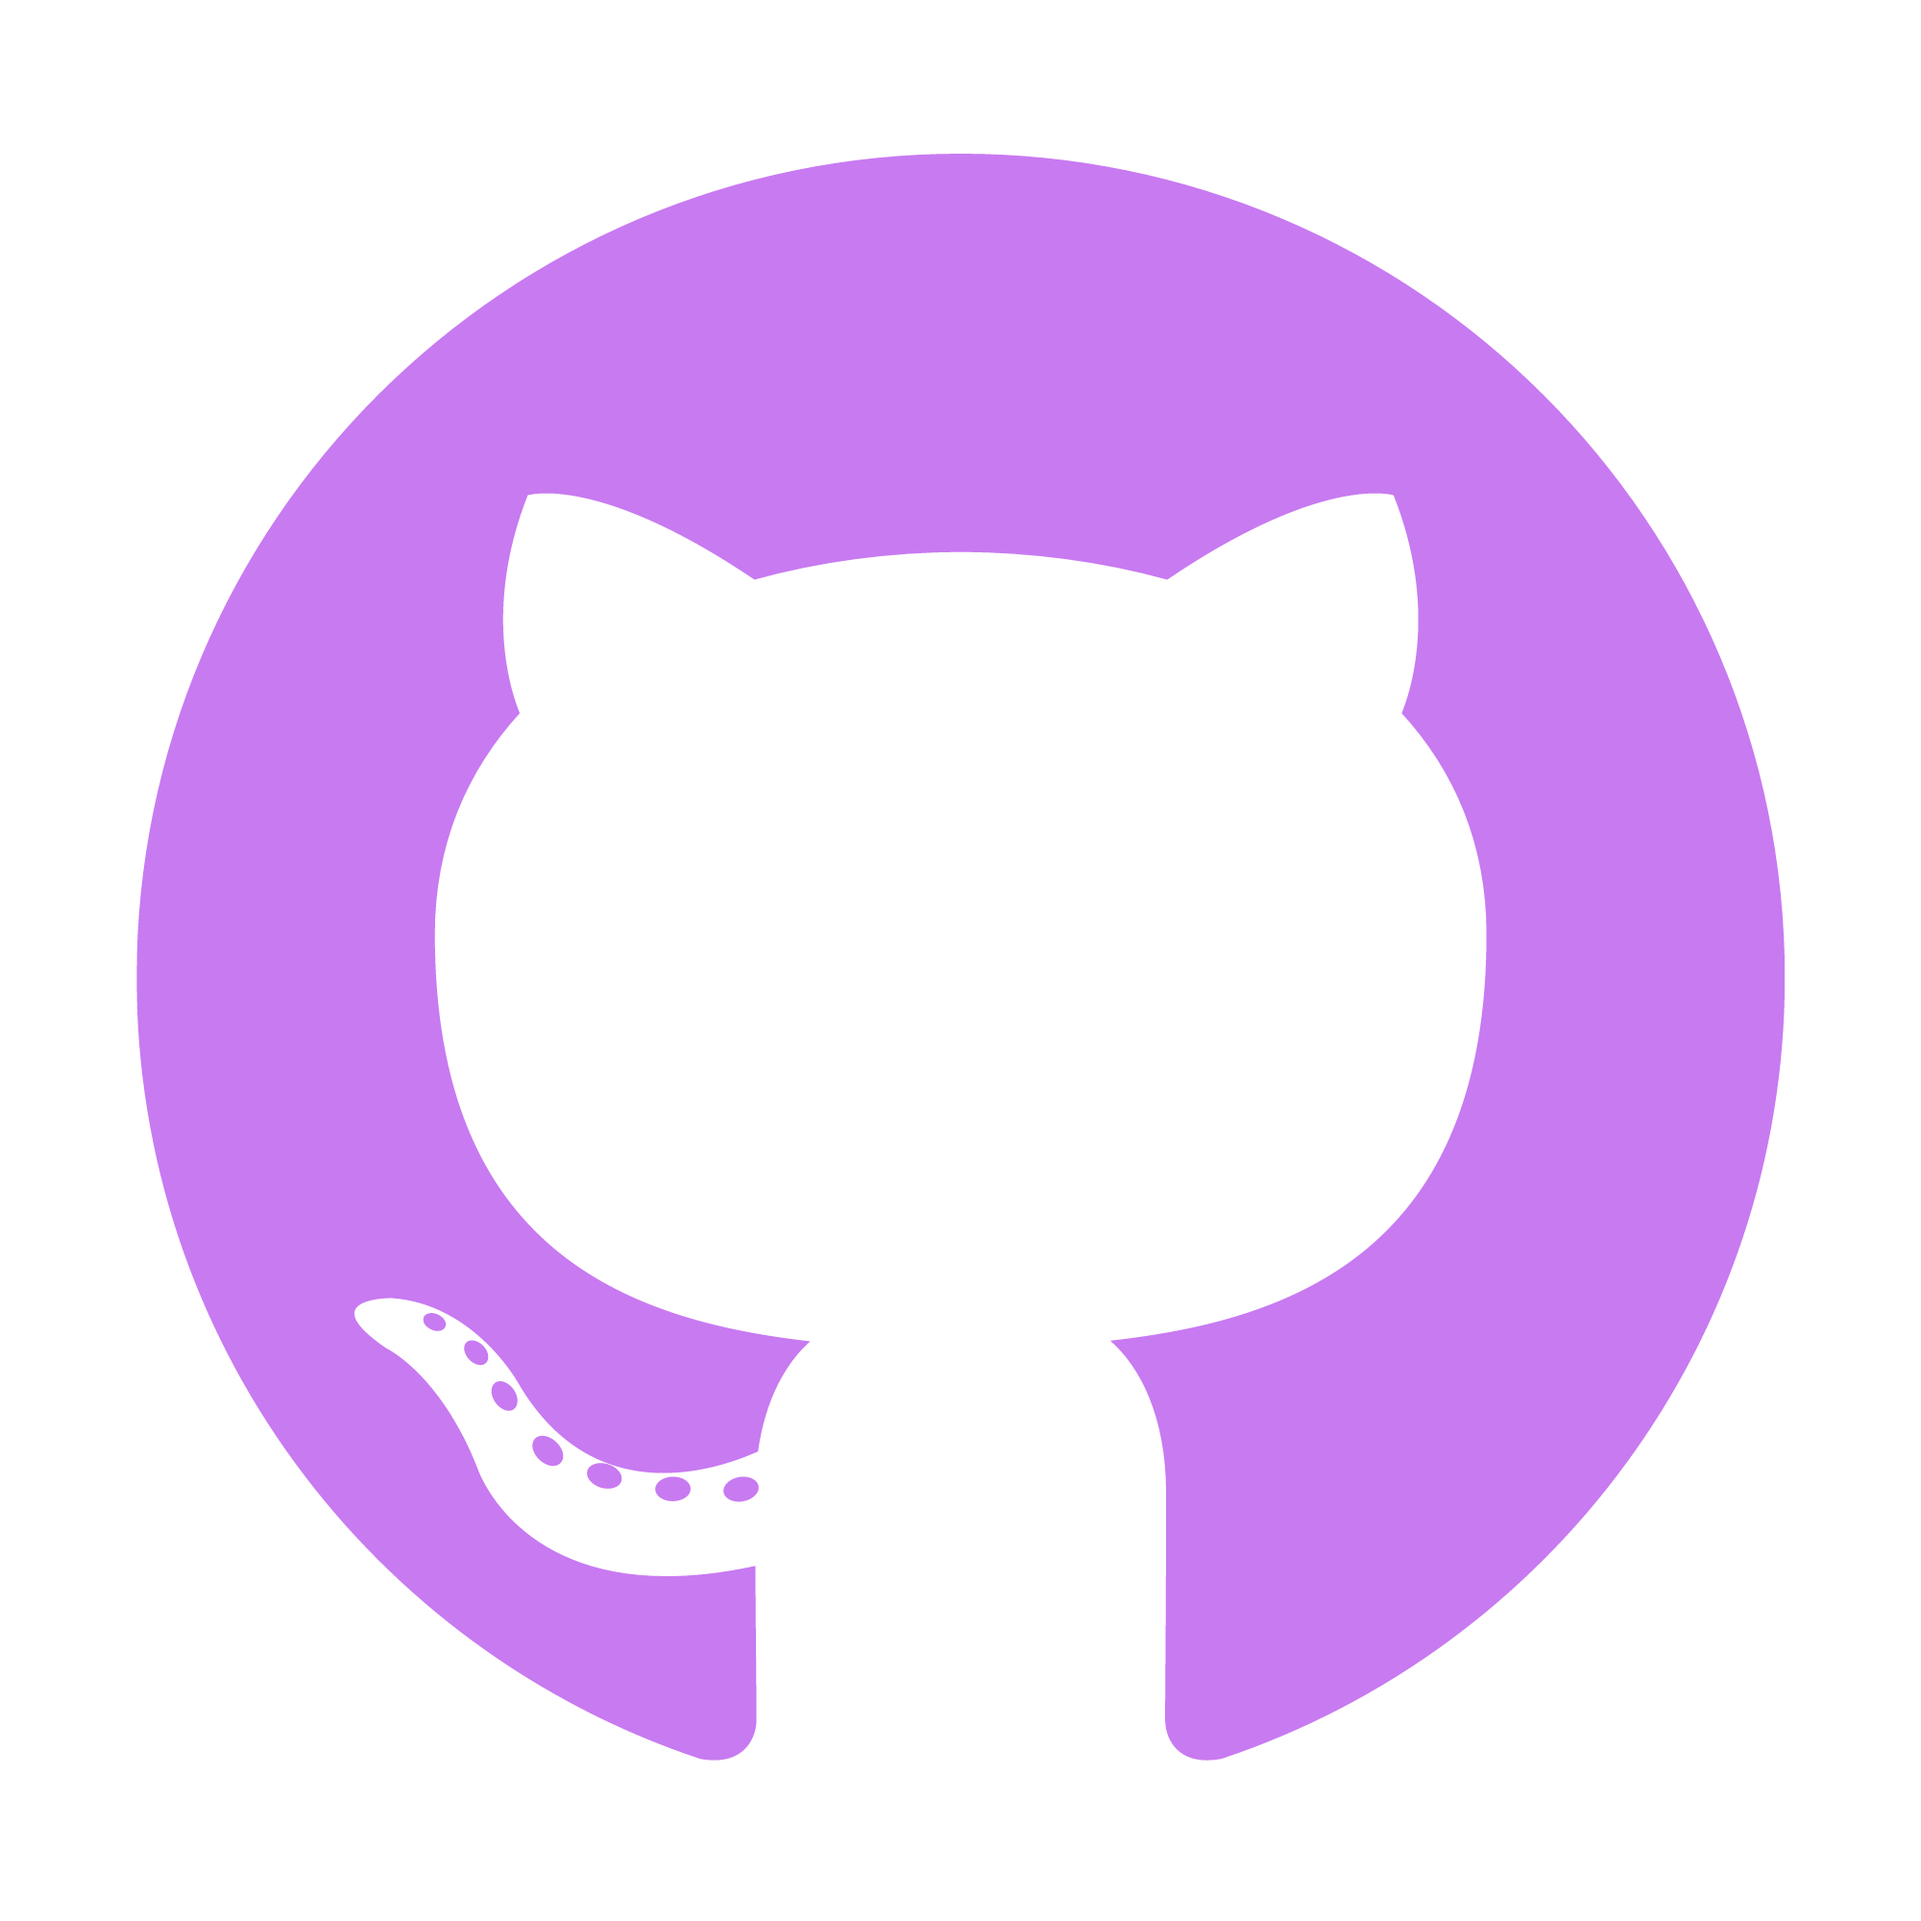
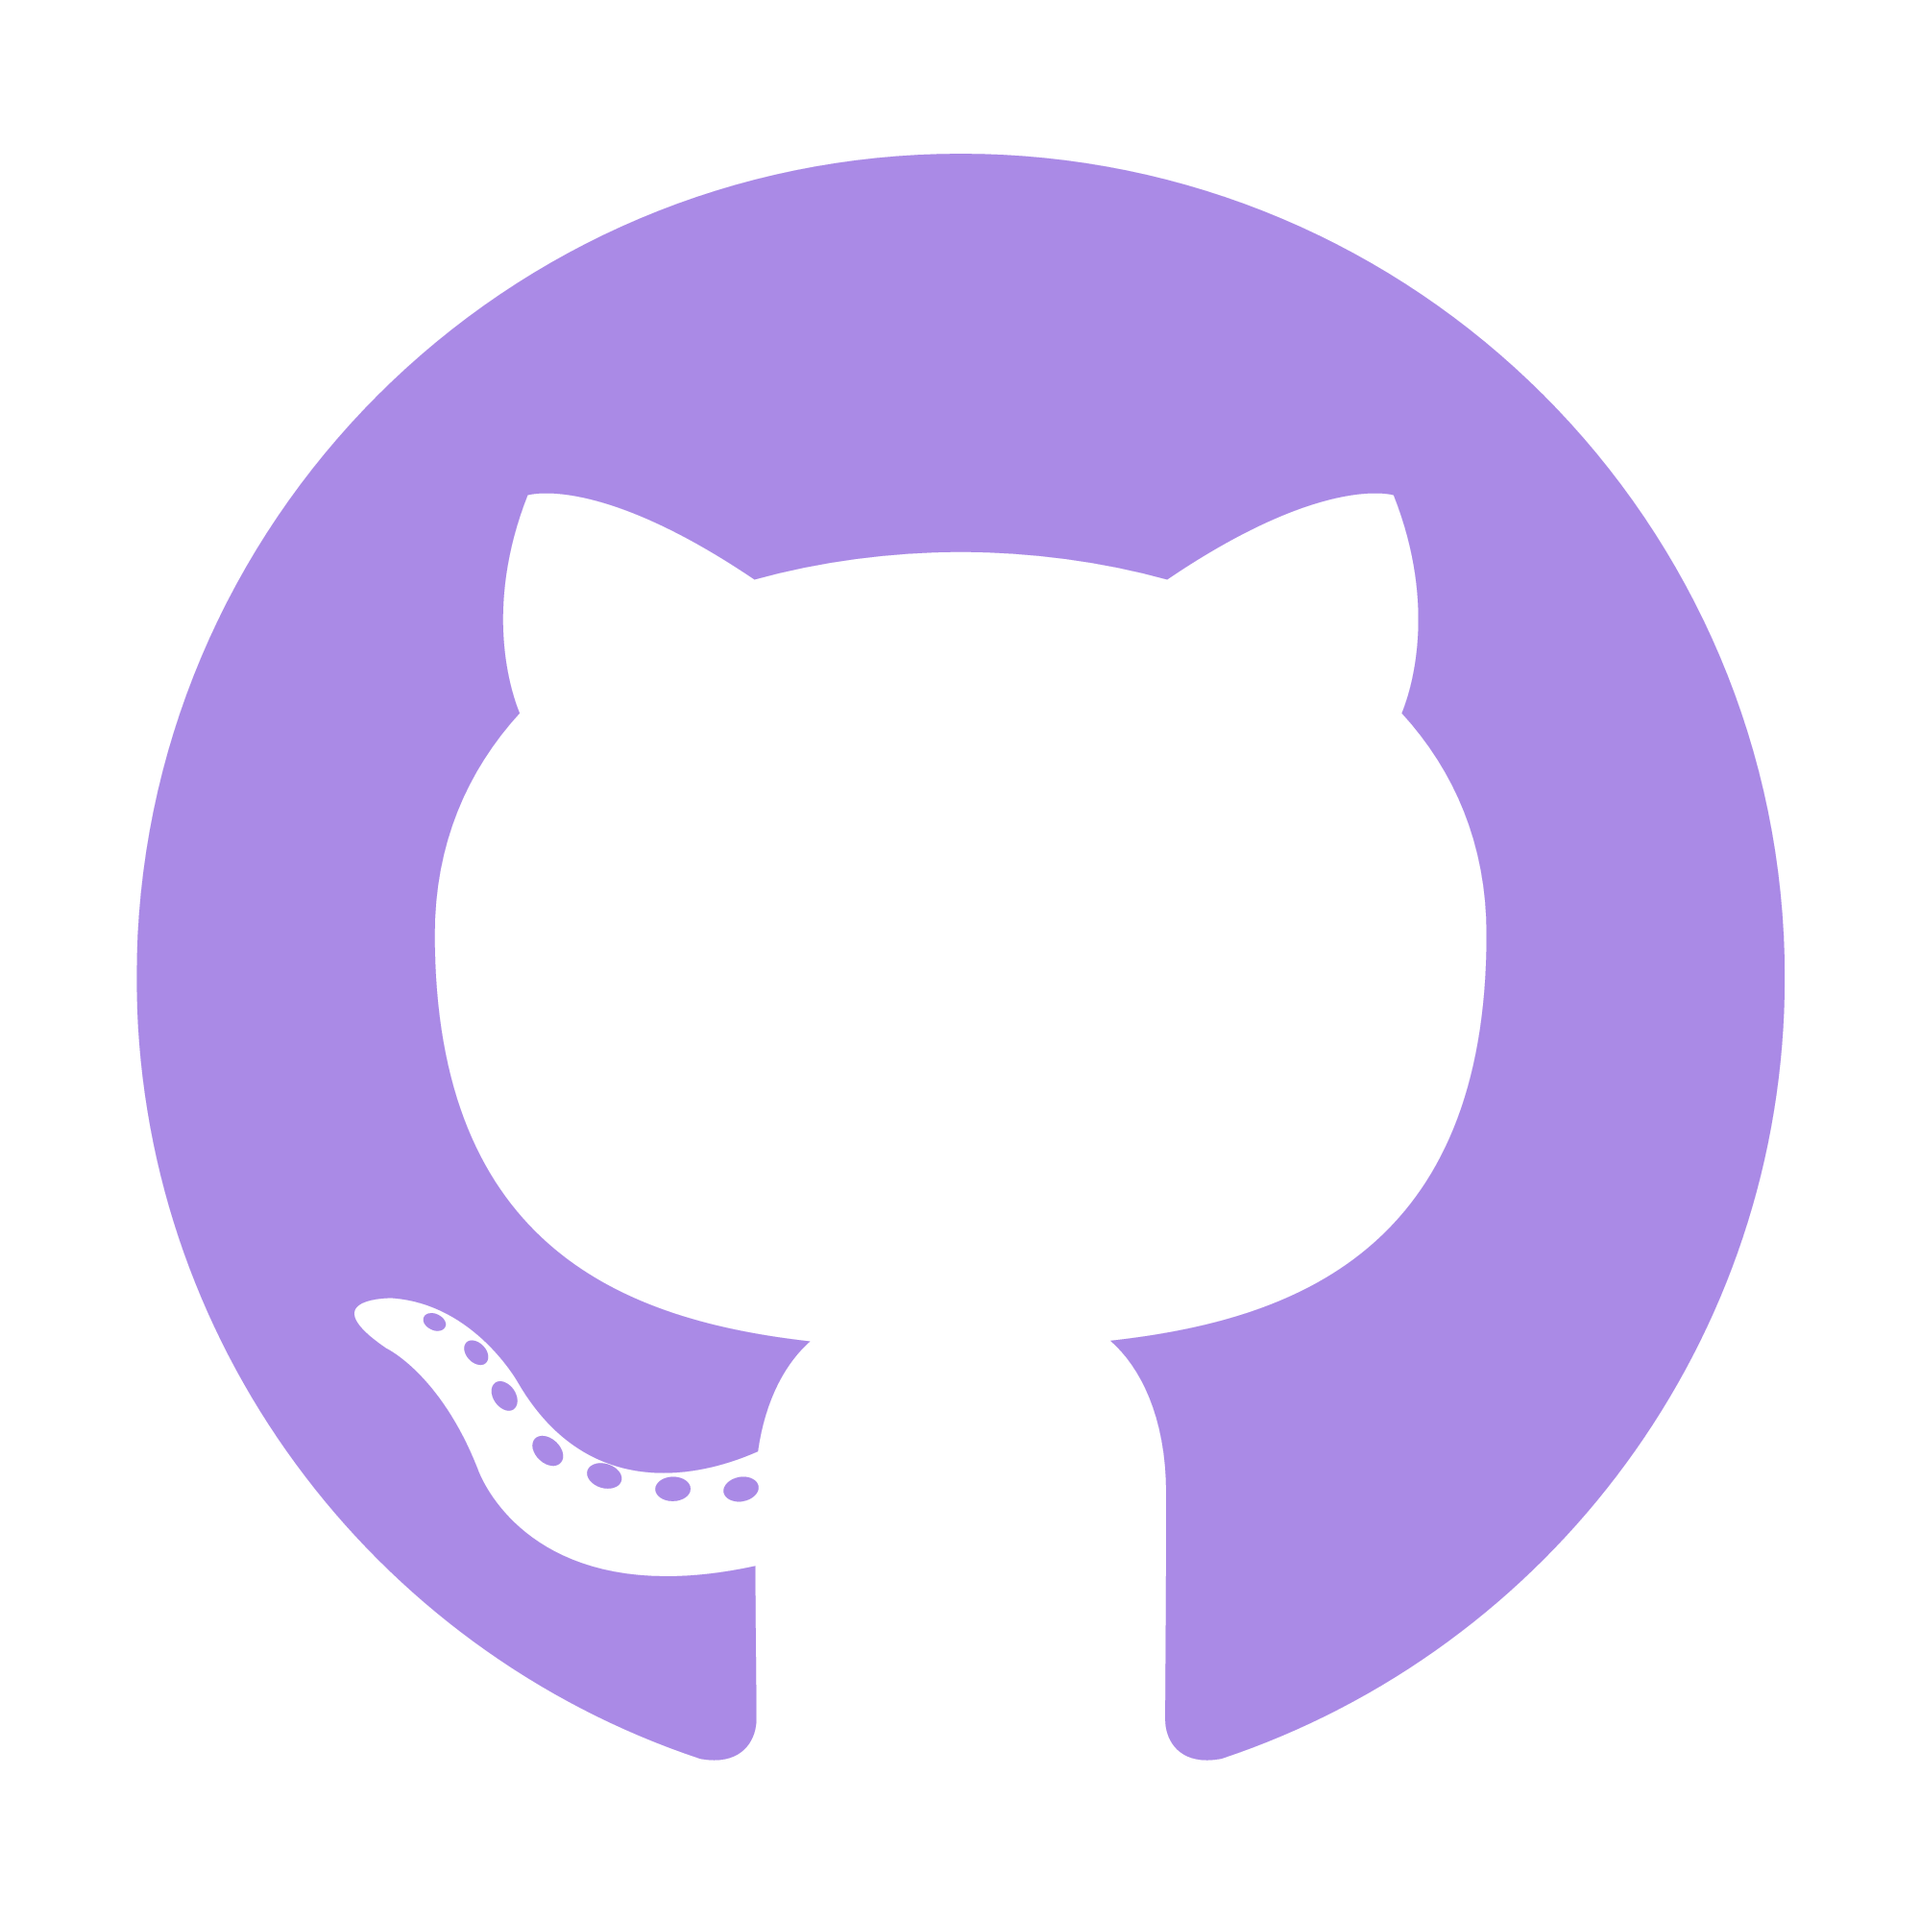
fix bug with project links, add topbar pictures to assets

diff --git a/src/components/portfolio/portfolio.scss b/src/components/portfolio/portfolio.scss
@@ -67,27 +67,30 @@
                 align-items: center;
                 justify-content: center;
                 position: absolute;
-                a {
-                    text-decoration: none;
-                }
+                
                 .button{
                     margin-top: 85px;
                     margin-right: 17px;
                     margin-left: 10px;
                     background-color: $mainColor;
-                    color: black;
+                    color: white;
                     font-size: 14px;
                     padding: 7px;
                     border-radius: 10px;
                     cursor: pointer;
                     text-align: center;
+
+                    a {
+                        text-decoration: none;
+                        color: white;
+                    }
                 }
             }
 
             &:hover{
                 background-color: $mainColor;
                 img{
-                    opacity: 0.4;
+                    opacity: 0.5;
                     z-index: 0;
                 }
             }

diff --git a/src/data.js b/src/data.js
@@ -24,7 +24,7 @@ export const featuredPortfolio = [
     },
     {
         id: "5",
-        title: "The Legend of Kaneko Ono",
+        title: "The Legend of Kaneko Ono Unity Game",
         img: "assets/legendof.png",
         code: "https://github.com/POOSD/The-Legend-of-Kaneko-Ono",
         demo: "https://www.youtube.com/watch?v=wY-m94LWnp8&t=91s&ab_channel=TheLegendofKanekoOno"
@@ -53,14 +53,14 @@ export const videogamePortfolio = [
         code: "https://github.com/shirnava/Disharmonic" },
     {
         id: "2",
-        title: "The Legend of Kaneko Ono",
+        title: "The Legend of Kaneko Ono Unity Game",
         img: "assets/legendof.png",
         code: "https://github.com/POOSD/The-Legend-of-Kaneko-Ono",
         demo: "https://www.youtube.com/watch?v=wY-m94LWnp8&t=91s&ab_channel=TheLegendofKanekoOno"
     },
     {
         id: "2",
-        title: "Tic Tac Toetle",
+        title: "Tic Tac Toetle Game",
         img: "assets/tictac.png",
         code: "https://github.com/shirnava/tictactoetle"
     }

diff --git a/src/components/portfolio/Portfolio.jsx b/src/components/portfolio/Portfolio.jsx
@@ -98,22 +98,15 @@ export default function Portfolio() {
           <img src= {d.img} alt="" />
           <h3>{d.title}</h3>
           <div className = "buttons">
-            {("code" in d ? <a href={d.code}>
+            {("code" in d ? 
               <div className = "button">
-              Code
-              </div>
-            </a> : <h1></h1>)}
+              <a href={d.code}>Code</a>
+              </div> : <h1></h1>)}
             
-            {("demo" in d ? <a href={d.demo}>
-              <div className = "button">
-              Demo
-              </div>
-            </a> : <h1></h1>)}
+            {("demo" in d ? <div className = "button">
+              <a href={d.demo}>Demo</a>
+              </div> : <h1></h1>)}
                     
-              <div className = "button">
-              Info
-              </div>
-
           </div>
         </div>
         ))}

diff --git a/src/global.scss b/src/global.scss
@@ -1,1 +1,1 @@
-$mainColor: #CDB7F6;
+$mainColor: #AA8AE6;
